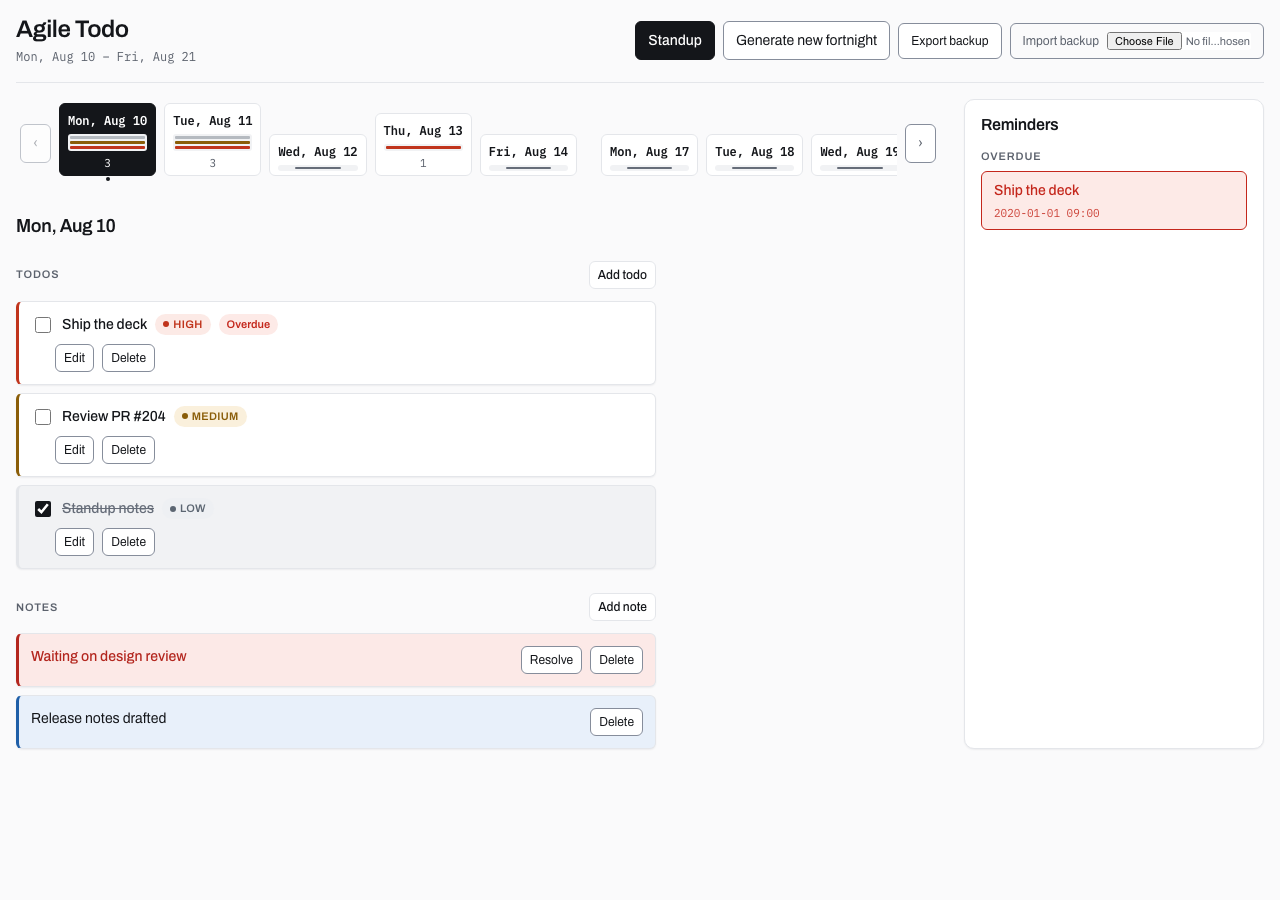
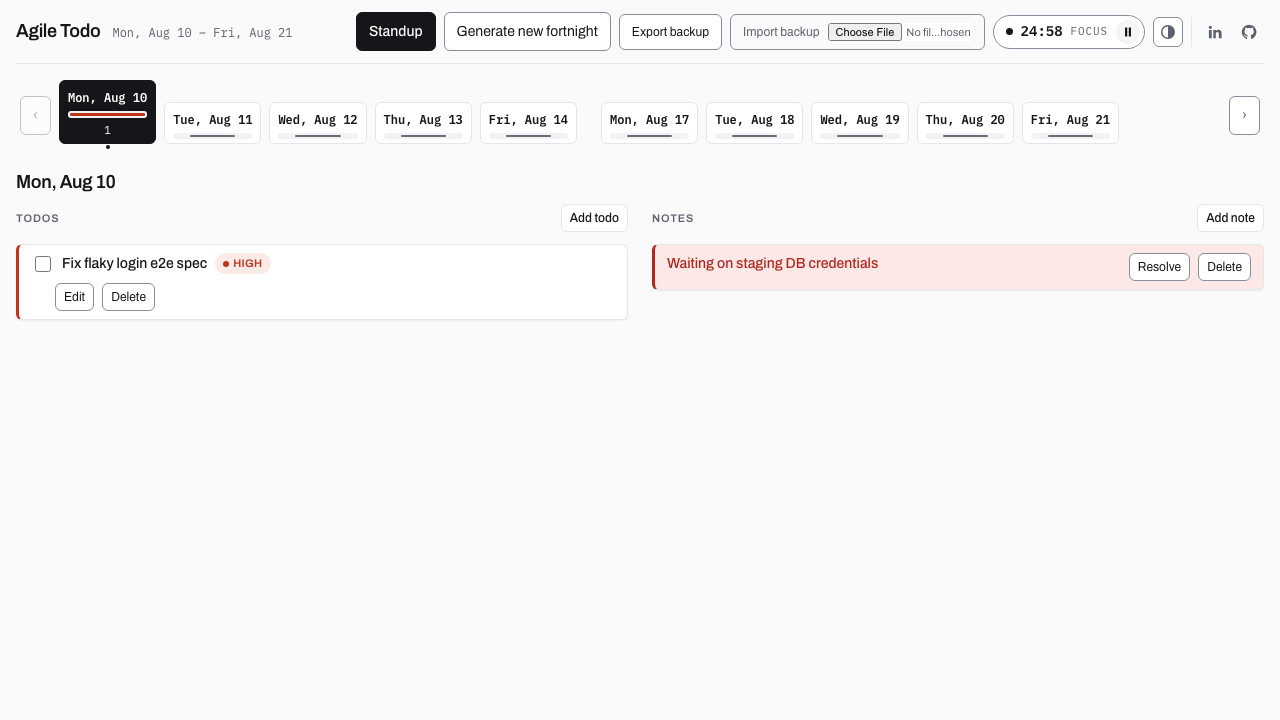
docs: sync CLAUDE.md and README with the redesign
253 tests, 7 persisted fields (schema v2), P shortcut and the pomodoro
widget in the keyboard model, pomodoro/theme in features and shortcuts,
theme key in data & privacy, author section, fresh screenshot, and the
invariants hook's field lists brought up to date.

diff --git a/CLAUDE.md b/CLAUDE.md
@@ -1,14 +1,14 @@
 # CLAUDE.md — Agile Todo App
 
-> This app is **finished, tested (205 tests), and deployed**. It is not a scaffold to build out — it's a working product. Changes here should be surgical, not exploratory. Every change ships with tests. Read the invariants below before editing anything under `src/`.
+> This app is **finished, tested (253 tests), and deployed**. It is not a scaffold to build out — it's a working product. Changes here should be surgical, not exploratory. Every change ships with tests. Read the invariants below before editing anything under `src/`.
 
 ## Orientation
 
-Browser-only fortnight (2-week, workdays-only) todo board. No backend, no network calls, no accounts — everything lives in one versioned JSON document in `localStorage`.
+Browser-only fortnight (2-week, workdays-only) todo board, plus a header Pomodoro timer and a manual light/dark/system theme toggle. No backend, no network calls, no accounts — everything lives in one versioned JSON document in `localStorage` (plus one tiny separate key for the theme preference — see INV-12).
 
 **Stack:** React 19 + TypeScript 7 (strict) + Vite 8 + Zustand 5 (`persist` middleware) + Vitest 4 + React Testing Library + CSS Modules. **No ESLint, no Prettier** — `tsc` with `strict` + `noUnusedLocals` + `noUnusedParameters` is the linter.
 
-**Keyboard model.** `src/hooks/useShortcuts.ts` is a global `keydown` listener mounted once in `App.tsx`: `⌘K`/`Ctrl+K` opens the command palette (`src/components/commands/CommandPalette.tsx`), `?` opens the shortcuts overlay, `←`/`→`/`Home`/`End` move the selected day (the fortnight tape, `src/components/board/FortnightTape.tsx`, has its own roving-tabindex handler for when focus is already on a day button — the two compose via `e.preventDefault()`/`e.defaultPrevented`, not by one knowing about the other), `T` jumps to today, `N`/`Shift+N` open the todo/note compose form, `S` opens Standup. Every shortcut but `⌘K` bails while focus is in a text-entry control or a `[role=dialog]` is mounted. Escape is deliberately *not* handled there — `Modal.tsx` and `TodoForm`/`NoteForm` each own their own, which is what lets Escape work from inside a text field.
+**Keyboard model.** `src/hooks/useShortcuts.ts` is a global `keydown` listener mounted once in `App.tsx`: `⌘K`/`Ctrl+K` opens the command palette (`src/components/commands/CommandPalette.tsx`), `?` opens the shortcuts overlay, `←`/`→`/`Home`/`End` move the selected day (the fortnight tape, `src/components/board/FortnightTape.tsx`, has its own roving-tabindex handler for when focus is already on a day button — the two compose via `e.preventDefault()`/`e.defaultPrevented`, not by one knowing about the other), `T` jumps to today, `N`/`Shift+N` open the todo/note compose form, `S` opens Standup, `P` opens the Pomodoro modal (`src/components/pomodoro/`). Every shortcut but `⌘K` bails while focus is in a text-entry control or a `[role=dialog]` is mounted — which is why the always-mounted `PomodoroWidget` in the header uses plain buttons: they stay operable while a dialog has the shortcuts dead. Escape is deliberately *not* handled there — `Modal.tsx` and `TodoForm`/`NoteForm` each own their own, which is what lets Escape work from inside a text field.
 
 **Where to look for what:**
 - Product behavior, edge cases, the "why" behind a rule → [`docs/superpowers/specs/2026-08-10-agile-todo-app-design.md`](docs/superpowers/specs/2026-08-10-agile-todo-app-design.md) (the approved design spec — product authority)
@@ -22,7 +22,7 @@ Browser-only fortnight (2-week, workdays-only) todo board. No backend, no networ
 | Command | What it does |
 |---|---|
 | `npm run dev` | Dev server at `http://localhost:5173` |
-| `npm test` | `vitest run` — 205 tests, ~3s |
+| `npm test` | `vitest run` — 253 tests, ~3s |
 | `npm run typecheck` | `tsc -b --noEmit` — the real typecheck, ~0.3s |
 | `npm run verify` | typecheck + test — **this is the definition of done** |
 | `npm run build` | `tsc -b && vite build` — production build |
@@ -80,8 +80,8 @@ Numbered so they can be cited precisely (a hook message might say "violates INV-
 **Check.** `src/domain/rollover.test.ts`, `src/domain/carryOver.test.ts`, `src/store/dayTick.test.ts`.
 
 ### INV-6. `partialize` is an allowlist — schema changes need a ritual
-**Rule.** `PersistedState` (`src/domain/types.ts`) has 6 fields; `partialize` in `src/store/store.ts` explicitly lists all 6. **Adding a field to `PersistedState` and forgetting to add it to `partialize` means it silently never persists** — no error, no warning, just data loss on reload.
-**Why.** An allowlist (vs. "persist everything except UI state") is the safer default for a store that also holds ephemeral fields (`viewedFortnightId`, `selectedDay`, `rehydrationError`, `announcement`, `composeIntent`) — an accidental leak the other direction would be much harder to notice. When adding a new ephemeral field, the correct amount of ritual is *none*: put it on `AppState` only, never `PersistedState`, and don't bump `SCHEMA_VERSION`. Add one assertion to `storePersistence.test.ts` confirming it's absent from the persisted blob — that's the whole checklist, and it's the opposite of the 6-step recipe below.
+**Rule.** `PersistedState` (`src/domain/types.ts`) has 7 fields (schema v2 added `pomodoroSettings`); `partialize` in `src/store/store.ts` explicitly lists all 7. **Adding a field to `PersistedState` and forgetting to add it to `partialize` means it silently never persists** — no error, no warning, just data loss on reload.
+**Why.** An allowlist (vs. "persist everything except UI state") is the safer default for a store that also holds ephemeral fields (`viewedFortnightId`, `selectedDay`, `rehydrationError`, `announcement`, `composeIntent`, `theme`, `pomodoro`) — an accidental leak the other direction would be much harder to notice. When adding a new ephemeral field, the correct amount of ritual is *none*: put it on `AppState` only, never `PersistedState`, and don't bump `SCHEMA_VERSION`. Add one assertion to `storePersistence.test.ts` confirming it's absent from the persisted blob — that's the whole checklist, and it's the opposite of the 6-step recipe below.
 **Check.** `src/store/storePersistence.test.ts` asserts the ephemeral fields are absent from the persisted blob.
 → See the schema-change recipe below for the full 6-step ritual.
 
@@ -107,7 +107,7 @@ Numbered so they can be cited precisely (a hook message might say "violates INV-
 ### INV-10. Test conventions
 **Rule.**
 - `globals: true` in Vitest config — never `import { describe, it, expect, vi } from 'vitest'`.
-- Tests are colocated. Component tests are grouped **per feature folder**, not per component — one `todos.test.tsx` covers `TodoItem` + `TodoForm` together, similarly `notes.test.tsx`, `history.test.tsx`, `reminders.test.tsx`, `standup.test.tsx`, `backup.test.tsx`.
+- Tests are colocated. Component tests are grouped **per feature folder**, not per component — one `todos.test.tsx` covers `TodoItem` + `TodoForm` together, similarly `notes.test.tsx`, `history.test.tsx`, `reminders.test.tsx`, `standup.test.tsx`, `backup.test.tsx`, `pomodoro.test.tsx` (+ its sibling `notify.test.ts` for the feature-detected platform shims).
 - The clock is mocked by **mocking the module**, never `vi.setSystemTime`:
   ```ts
   vi.mock('../../store/clock', () => ({

diff --git a/README.md b/README.md
@@ -4,9 +4,11 @@ A browser-only todo board built around a two-week sprint. No backend, no account
 
 **[Live demo →](https://joanesquivel.github.io/agile-todo-app/)**
 
-205 tests · TypeScript strict · zero backend
+253 tests · TypeScript strict · zero backend
 
-![Screenshot of the Agile Todo App showing the fortnight tape (each day as a stacked column of priority-colored segments), a high-priority overdue todo, a blocker note, an info note, and the reminders panel](docs/screenshot.png)
+Built by [Joan Esquivel](https://www.linkedin.com/in/joanesquivel/) · [source code](https://github.com/JoanEsquivel/agile-todo-app)
+
+![Screenshot of the Agile Todo App: a single-row header with a running Pomodoro timer and theme toggle, the fortnight tape (each day as a stacked column of priority-colored segments), and the selected day's Todos and Notes side by side with a high-priority todo and a blocker note](docs/screenshot.png)
 
 ## What it does
 
@@ -16,6 +18,8 @@ A browser-only todo board built around a two-week sprint. No backend, no account
 - **Visual reminders** — an Overdue/Upcoming panel, no browser notification permissions needed
 - **Per-day notes** — flag a `blocker` (resolvable) or leave an `info` note
 - **Read-only fortnight history** — generate a new fortnight any time; old ones stay browsable, never editable
+- **Pomodoro timer** — an always-visible header widget with classic cycles (25/5, long break every 4th), configurable durations, and an optional sound + browser notification when a phase ends
+- **Light / dark / system theme** — follows your OS by default, with a manual toggle that persists on your device
 - **Keyboard-first** — a command palette and a full set of shortcuts; see below
 
 ## Keyboard shortcuts
@@ -30,6 +34,7 @@ A browser-only todo board built around a two-week sprint. No backend, no account
 | `N` | New todo |
 | `Shift+N` | New note |
 | `S` | Standup |
+| `P` | Pomodoro timer |
 | `Esc` | Close the open form or dialog |
 
 Every shortcut but `⌘K` stays out of the way while you're typing in a field. `N`/`Shift+N` (and the palette's Add actions) refuse to open a form while you're viewing read-only fortnight history; day navigation always works, since it isn't a mutation.
@@ -81,7 +86,7 @@ Full architecture rationale, data model, and edge-case decisions: [`docs/superpo
 
 ## Testing
 
-Vitest + React Testing Library, 205 tests across 27 files, all colocated with the code they test. Coverage spans pure domain logic, store transitions, persistence/migration behavior, component interaction, and accessibility.
+Vitest + React Testing Library, 253 tests across 31 files, all colocated with the code they test. Coverage spans pure domain logic, store transitions, persistence/migration behavior, component interaction, and accessibility.
 
 ```sh
 npm test                              # everything
@@ -90,7 +95,7 @@ npx vitest run src/domain/dates.test.ts   # one file
 
 ## Data & privacy
 
-Everything is stored under a single `localStorage` key (`agile-todo-app.v-state`). Nothing is ever sent over the network. Clearing your browser's site data deletes everything — export a JSON backup first if you want to keep it.
+Everything is stored under a single `localStorage` key (`agile-todo-app.v-state`), plus one tiny `agile-todo-app.theme` key when you pick a manual theme. Nothing is ever sent over the network. Clearing your browser's site data deletes everything — export a JSON backup first if you want to keep it.
 
 ## Deployment
 
@@ -102,6 +107,10 @@ GitHub Actions builds, tests, and deploys to GitHub Pages on every push to `main
 - [`docs/superpowers/specs/2026-08-10-agile-todo-app-design.md`](docs/superpowers/specs/2026-08-10-agile-todo-app-design.md) — the design spec
 - [`docs/TECH-DEBT.md`](docs/TECH-DEBT.md) — known, triaged gaps
 - [`docs/ARCHIVE.md`](docs/ARCHIVE.md) — how it was originally built (historical)
+
+## Author
+
+Built by **Joan Esquivel** — [LinkedIn](https://www.linkedin.com/in/joanesquivel/) · [GitHub](https://github.com/JoanEsquivel). The header of the app links here too.
 
 ## License
 
